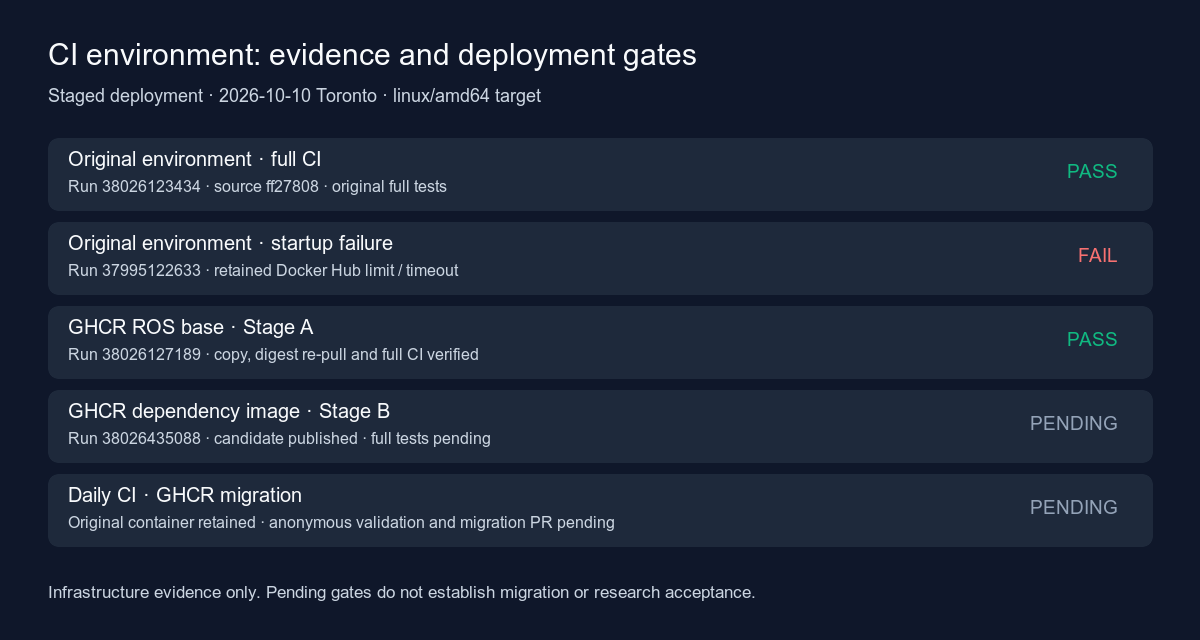
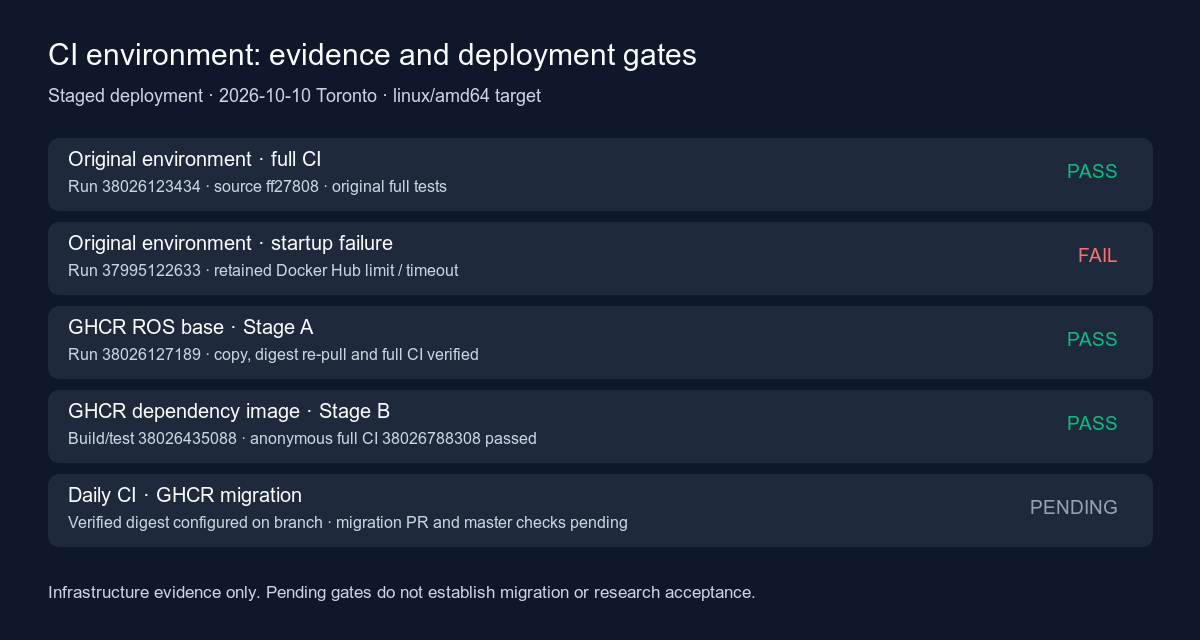
Use fully verified GHCR dependency digest for daily CI

Changed region(s): [[0.0617, 0.6562, 0.4317, 0.7188], [0.0617, 0.7812, 0.5242, 0.8438], [0.8633, 0.625, 0.925, 0.6875]]

diff --git a/docs/ci-environment.md b/docs/ci-environment.md
@@ -1,26 +1,33 @@
 # CI environment maintenance
 
-Status, 2026-10-10 (America/Toronto): **Stage A published and fully verified;
-Stage B candidate published, its full validation is running; daily CI has not
-migrated.** PR #2 was merged with direct human authorization at
-`ff27808fea77a9742cd9363c17addfbf0d1f3ca2`. Current daily CI still uses the
-original container and dependency installation. No research code, phase gates,
-thresholds or test entry points changed.
+Status, 2026-10-10 (America/Toronto): **base and dependency images published,
+re-pulled and fully verified; anonymous hosted-runner full CI passed; migration
+branch configured, awaiting its PR checks and merge/default-branch validation.**
+PR #2 was merged with direct human authorization at `ff27808fea77a9742cd9363c17addfbf0d1f3ca2`.
+No algorithms, thresholds, research gates or original test entry points changed.
+
+Current verified CI environment (`linux/amd64` manifest):
+`ghcr.io/sp-zh/predictive-motion-research-ci@sha256:16bacb7ed79dde48cd3c60766ab04982a4096fdcfe780a492636ff5c1ed2cff6`.
+Build source: `ff27808fea77a9742cd9363c17addfbf0d1f3ca2`; definition SHA-256:
[1 lines of base64/hex data omitted]
+complete installed-package inventory SHA-256:
[1 lines of base64/hex data omitted]
+Inventory remains inside the retained image, retrievable with
+`docker run --rm --entrypoint cat <verified-CI-ref> /usr/local/share/predictive-motion-ci/installed-packages.tsv`.
 
 Verified GHCR ROS base (`linux/amd64` manifest):
 `ghcr.io/sp-zh/predictive-motion-research-ros-base@sha256:a5426de405f6f0a82b0f3def3bbd3bce2a71a91421fe980c17613b4e51ef38d9`.
-[Stage A run 38026127189](https://github.com/sp-zh/predictive-motion-research/actions/runs/38026127189)
-passed publication/re-pull/content correspondence and the original full tests.
-The dependency candidate is
-`ghcr.io/sp-zh/predictive-motion-research-ci@sha256:16bacb7ed79dde48cd3c60766ab04982a4096fdcfe780a492636ff5c1ed2cff6`,
-from [Stage B run 38026435088](https://github.com/sp-zh/predictive-motion-research/actions/runs/38026435088).
-It is published but not yet accepted for daily CI. Do not switch until full and
-anonymous hosted-runner validation complete. The Package page currently shows
-Public and repository ownership; the agent did not alter visibility.
+[Stage A 38026127189](https://github.com/sp-zh/predictive-motion-research/actions/runs/38026127189),
+[Stage B 38026435088](https://github.com/sp-zh/predictive-motion-research/actions/runs/38026435088),
+and [anonymous full CI 38026788308](https://github.com/sp-zh/predictive-motion-research/actions/runs/38026788308)
+all passed at the same source commit. Each full-test job ran the original
+24 native GoogleTests, eight statistics tests and numerical/consumer checks,
+without test skips. Both actual Package pages show Public and this repository;
+the agent did not change their visibility. Daily CI needs no registry secret.
 
 ## Current source and deployment order
 
-Daily CI and the retained development `docker/Dockerfile` currently use
+The pre-migration daily CI and retained development `docker/Dockerfile` use
 `docker.io/library/ros:jazzy-ros-base-noble@sha256:066420e07f60aa18262f2479981def87ebcfcec42eefb0c0c57c4a46098348ca`.
 This is the official multi-platform **index**, not a config ID. Linux CI targets
 `linux/amd64`. The publisher retains the original tag+digest source in
@@ -180,9 +187,17 @@ the two CI refs and removing/replacing installation only when appropriate.
 Record the previous verified GHCR digest before replacement. Roll back via a
 reviewed PR restoring both refs to that prior compatible digest; if definitions
 also changed, restore the corresponding environment definitions in the same PR
-so the checker can pass. Do not silently revert to Docker Hub. Until a first
-GHCR release exists, the current official ROS source plus setup script remains
-the bootstrap recovery configuration, not a verified GHCR rollback target.
+so the checker can pass. Do not silently revert to Docker Hub. For this first dependency-image release there is no earlier preinstalled CI
+image to invent. Retain the verified Stage A GHCR base as the bootstrap recovery
+image: a rollback PR can use its exact `a5426de…f38d9` reference in both CI fields
+and replace the consistency step with the unchanged setup script, as fully tested
+in Stage A. This explicit recovery still uses GHCR, but temporarily restores apt
+installation and its network requirements. For subsequent dependency releases,
+keep the current `16bacb7e…2cff6` image as the previous fully verified environment
+and restore its matching definitions and both refs through a rollback PR.
+Keep both current CI and Stage A base release tags; do not delete either without
+owner approval. The complete references above are the authority; short hashes in
+this paragraph are labels only.
 
 Retain current and at least one previous verified image/tag; never delete them
 without owner confirmation. Review security updates on a controlled schedule

diff --git a/reviews/ci-ghcr-bootstrap-20261009.md b/reviews/ci-ghcr-bootstrap-20261009.md
@@ -190,3 +190,59 @@ records above. Infrastructure scope only, no physical model units. SHA-256:
 
[2 lines of base64/hex data omitted]
+
+
+Stage B and public verification checkpoint — 2026-10-10 Toronto
+
+[Stage B 38026435088](https://github.com/sp-zh/predictive-motion-research/actions/runs/38026435088)
+completed publication, digest re-pull and the separate read-only full-test job.
+The actual CI manifest is `ghcr.io/sp-zh/predictive-motion-research-ci@sha256:16bacb7ed79dde48cd3c60766ab04982a4096fdcfe780a492636ff5c1ed2cff6`.
+It has its own registry identity, distinct from base/config IDs. Downloaded its
+metadata, inventory and native XML/logs: all four environment definition hashes
+match repository bytes; Ubuntu 24.04/Jazzy/x86_64 and exact Pinocchio match;
+24 native + eight statistics tests, zero skips, numerical/consumer markers pass.
[2 lines of base64/hex data omitted]
+The context contained only four declared definition files, no source checkout,
+.git, private data, model/cache, build/install/log or credential files. Runtime
+absence checks at the image workspace root passed. No old project binaries or
+old test outcomes were embedded; tests compiled the checked-out source anew.
+
+Actual Package pages show Public and project ownership for both names; no
+visibility setting was changed by the agent. [Public verification 38026788308](https://github.com/sp-zh/predictive-motion-research/actions/runs/38026788308)
+used a fresh GitHub-hosted Linux runner with a new empty Docker auth directory,
+no login, and successfully pulled the exact CI digest and ran the same full tests
+at `ff27808`. Its publishing job was intentionally skipped by operation;
+all required validation/test steps executed. Artifact XML/full logs were
+independently audited, with 24 native/eight statistics cases and zero skips.
+
+Additional isolated Linux negative controls: anonymous Skopeo read of the real
+public CI manifest returned the exact digest; a loopback private-manifest fixture
+served the same bytes but returned authentication-required/exit 1 with empty auth,
+and returned the valid bytes with ephemeral fixture auth. The loopback fixture
+and ephemeral auth were stopped/deleted; no real Package visibility or access was
+changed. This tests controlled private registry access, not a claim about an
+unprovided private GHCR package. The real checker against the published image's
+metadata rejected a changed definition with exit 1 before tests. Existing real
+subprocess negatives retain nonzero test/install exits even if diagnostics fail.
+The first negative collector expected only “unauthorized”, while Skopeo correctly
+returned “authentication required”; its assertion failure is retained at
+`/private/tmp/ros-ghcr-negative-control.log`. The corrected collector passed at
+`/private/tmp/ros-ghcr-negative-control-v2.log`; no image or production source
+changed for that collector repair. Loopback HTTP/TLS override applied only to
+that isolated fixture; all real registry reads used normal TLS verification.
+
+Verified direct-human authorization to merge the final migration after passing
+checks was read from the userMessage in chat `01a122f5-a5da-7461-850e-7af06b79ce33`,
+turn `01a1243a-d86d-7fa0-8185-add59dc7730e`: “等新环境的全部测试通过后，再合并这第二个 PR，并核对 master 的运行结果。”
+That chat is independently reviewing only, with this chat the sole implementer.
+The migration changes only the two static CI image refs and replaces repeated
+apt setup with the fail-closed definition/package checker. It retains workflow
+name, validation ID, push/PR scope, read-only permissions and all original tests.
+Default-branch migration remains pending until the final PR and master run pass.
+
+Verified-image/migration-pending visual checkpoint: same 1200×640 dimensions and
+infrastructure-only scope; newly rendered PNG inspected. SHA-256:
+
[2 lines of base64/hex data omitted]

diff --git a/docs/showcase.md b/docs/showcase.md
@@ -14,7 +14,8 @@ performance or physical hardware safety.
 [audited run provenance](../reviews/ci-ghcr-bootstrap-20261009.md),
 [release and rollback runbook](ci-environment.md).
 This shows the same-commit original environment and verified GHCR base, with
-the published dependency candidate and migration gates explicitly pending. It is an infrastructure diagnostic, not a robot render or controller
+the verified dependency image and anonymous full CI, with migration gates
+explicitly pending. It is an infrastructure diagnostic, not a robot render or controller
 performance result; no new motion/plant experiment was run for this repair.
 
 
